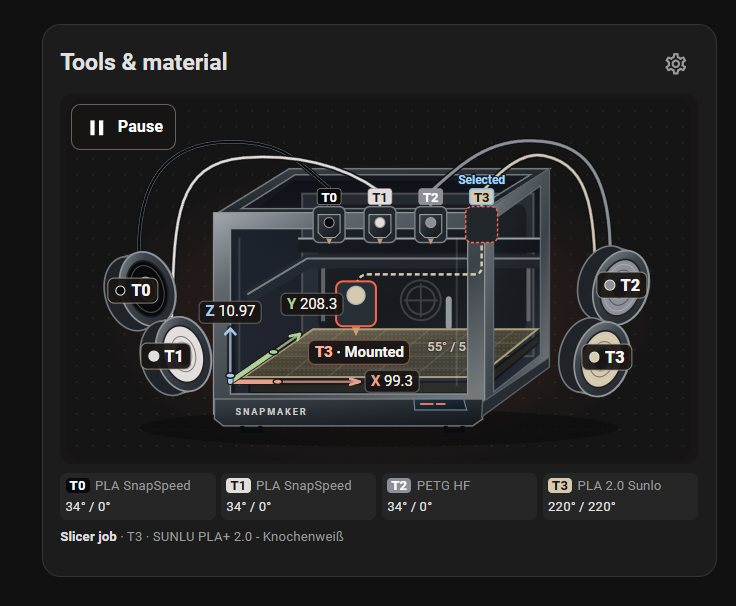
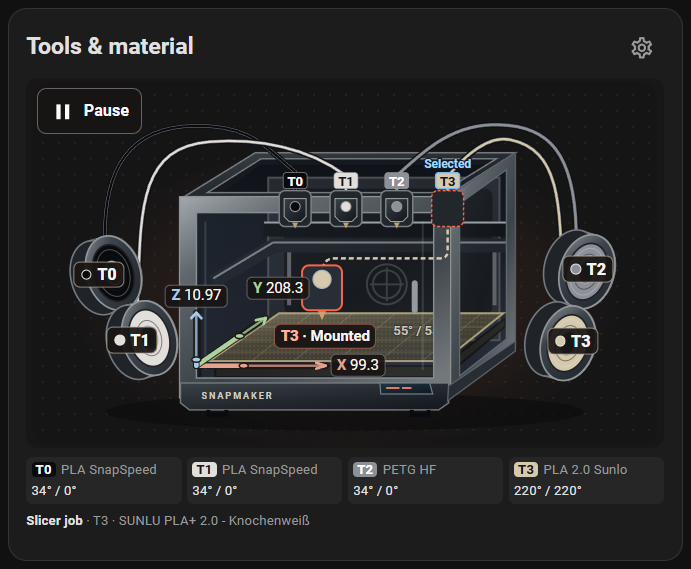
style(docs): crop showcase screenshots edge-to-edge and remove black margins

diff --git a/docs/index.html b/docs/index.html
@@ -13,7 +13,7 @@
   <meta property="og:title" content="Snapmaker U1 Dashboard for Home Assistant · Reaper2507">
   <meta property="og:description" content="Snapmaker U1 Home Assistant Community Hub by Reaper2507: Studio &amp; Cutaway live rendering, 3 Lovelace views, post-print bed cooling, hardware mod, and 26 tuned OrcaSlicer presets.">
   <meta property="og:url" content="https://reaper2507.github.io/snapmaker-u1-homeassistant/">
-  <meta property="og:image" content="https://reaper2507.github.io/snapmaker-u1-homeassistant/assets/dashboard-main.jpg">
+  <meta property="og:image" content="https://reaper2507.github.io/snapmaker-u1-homeassistant/assets/dashboard-main.png">
   <script type="application/ld+json">
   {
     "@context": "https://schema.org",
@@ -32,7 +32,7 @@
     "keywords": ["Snapmaker U1", "Home Assistant", "Reaper2507", "snapmaker-u1-homeassistant", "OrcaSlicer", "Lovelace", "Cool After Printing"]
   }
   </script>
-  <link rel="stylesheet" href="styles.css?v=20261111_01">
+  <link rel="stylesheet" href="styles.css?v=20261111_03">
   <link rel="preconnect" href="https://fonts.googleapis.com">
   <link rel="preconnect" href="https://fonts.gstatic.com" crossorigin>
   <link href="https://fonts.googleapis.com/css2?family=Inter:wght@400;500;600;700;800&family=JetBrains+Mono:wght@400;600&display=swap" rel="stylesheet">
@@ -84,8 +84,8 @@
         </div>
 
         <div class="hero-image">
-          <button type="button" class="hero-preview-btn" data-lightbox-src="assets/dashboard-main.jpg" data-lightbox-title="Snapmaker U1 Dashboard">
-            <img src="assets/dashboard-main.jpg" alt="Snapmaker U1 Home Assistant dashboard showing Studio view, camera, last print, Cooling after printing, and 4 toolheads">
+          <button type="button" class="hero-preview-btn" data-lightbox-src="assets/dashboard-main.png" data-lightbox-title="Snapmaker U1 Dashboard">
+            <img src="assets/dashboard-main.png" alt="Snapmaker U1 Home Assistant dashboard showing Studio view, camera, last print, Cooling after printing, and 4 toolheads">
           </button>
         </div>
       </div>
@@ -148,8 +148,8 @@
 
         <div class="showcase-grid">
           <article class="showcase-card showcase-wide">
-            <button type="button" class="showcase-thumb-btn" data-lightbox-src="assets/dashboard-main.jpg" data-lightbox-title="Dashboard">
-              <img src="assets/dashboard-main.jpg" alt="Main Snapmaker U1 dashboard showing tools and material, camera, last print, cooling after printing, toolheads, and motion controls" loading="lazy">
+            <button type="button" class="showcase-thumb-btn" data-lightbox-src="assets/dashboard-main.png" data-lightbox-title="Dashboard">
+              <img src="assets/dashboard-main.png" alt="Main Snapmaker U1 dashboard showing tools and material, camera, last print, cooling after printing, toolheads, and motion controls" loading="lazy">
             </button>
             <div class="showcase-card-body">
               <h3 data-i18n="sc-full-title">Dashboard (Main View)</h3>
@@ -178,8 +178,8 @@
           </article>
 
           <article class="showcase-card">
-            <button type="button" class="showcase-thumb-btn" data-lightbox-src="assets/dashboard-files.jpg" data-lightbox-title="Files &amp; Layer View">
-              <img src="assets/dashboard-files.jpg" alt="Files, history, timelapse tabs and live layer view card" loading="lazy">
+            <button type="button" class="showcase-thumb-btn" data-lightbox-src="assets/dashboard-files.png" data-lightbox-title="Files &amp; Layer View">
+              <img src="assets/dashboard-files.png" alt="Files, history, timelapse tabs and live layer view card" loading="lazy">
             </button>
             <div class="showcase-card-body">
               <h3 data-i18n="sc-files-title">Files, History &amp; Layer View</h3>
@@ -188,8 +188,8 @@
           </article>
 
           <article class="showcase-card">
-            <button type="button" class="showcase-thumb-btn" data-lightbox-src="assets/maintenance-view.jpg" data-lightbox-title="Maintenance &amp; Diagnostics">
-              <img src="assets/maintenance-view.jpg" alt="Maintenance view with G-code console, temperature history, 11x11 bed leveling mesh, maintenance timers and diagnostics" loading="lazy">
+            <button type="button" class="showcase-thumb-btn" data-lightbox-src="assets/maintenance-view.png" data-lightbox-title="Maintenance &amp; Diagnostics">
+              <img src="assets/maintenance-view.png" alt="Maintenance view with G-code console, temperature history, 11x11 bed leveling mesh, maintenance timers and diagnostics" loading="lazy">
             </button>
             <div class="showcase-card-body">
               <h3 data-i18n="sc-maint-title">Maintenance &amp; Diagnostics</h3>
@@ -288,6 +288,6 @@
     </div>
   </footer>
 
-  <script src="app.js?v=20261111_01"></script>
+  <script src="app.js?v=20261111_02"></script>
 </body>
 </html>

diff --git a/docs/styles.css b/docs/styles.css
@@ -2310,7 +2310,7 @@ a { color: var(--link-muted); }
 .controls-preview-trigger img { display: block; width: 100%; height: auto; margin-inline: auto; }
 .controls-preview-trigger .studio-hero-card { max-height: 520px; width: auto; max-width: 100%; object-fit: contain; }
 .controls-preview-label { display: inline-block; margin-block-start: .55rem; text-decoration: underline; text-underline-offset: .2em; }
-.controls-preview-dialog { margin: auto; overflow-y: auto; width: min(980px, calc(100% - 2rem)); max-height: calc(100% - 2rem); padding: 1rem; border: 1px solid var(--border-muted); border-radius: 12px; background: #171d26; color: #eff3fa; }
+.controls-preview-dialog { margin: auto; overflow-y: auto; width: min(1180px, calc(100% - 2rem)); max-height: calc(100% - 2rem); padding: 1rem; border: 1px solid var(--border-muted); border-radius: 12px; background: #171d26; color: #eff3fa; }
 .controls-preview-dialog::backdrop { background: rgb(0 0 0 / .7); }
 .controls-preview-dialog img { display: block; width: 100%; height: auto; }
 .controls-preview-header { display: flex; align-items: center; justify-content: space-between; flex-wrap: wrap; gap: .5rem; }
@@ -2322,7 +2322,7 @@ a { color: var(--link-muted); }
 .hero-content .hero-lead { margin-block-end: 1.1rem; }
 .hero-image { grid-area: preview; align-self: center; min-width: 0; }
 .hero-preview-btn { display: block; width: 100%; padding: 0; border: 1px solid var(--border-muted); border-radius: var(--radius-md); overflow: hidden; background: #0d1117; cursor: zoom-in; }
-.hero-preview-btn img { display: block; width: 100%; height: auto; }
+.hero-preview-btn img { display: block; width: 100%; height: auto; max-height: 440px; object-fit: cover; object-position: top center; }
 .dashboard-views { margin-block: 1rem; }
 .dashboard-view-link { display: block; text-decoration: none; }
 .dashboard-view-link h3 { margin-block-start: .75rem; text-decoration: underline; text-underline-offset: .2em; }
@@ -2484,13 +2484,13 @@ a { color: var(--link-muted); }
 .showcase-thumb-btn img {
   display: block;
   width: 100%;
-  max-height: 360px;
-  object-fit: contain;
-  background: #0d1117;
+  height: auto;
 }
 
 .showcase-card.showcase-wide .showcase-thumb-btn img {
-  max-height: 460px;
+  max-height: 680px;
+  object-fit: cover;
+  object-position: top center;
 }
 
 .showcase-card-body {
